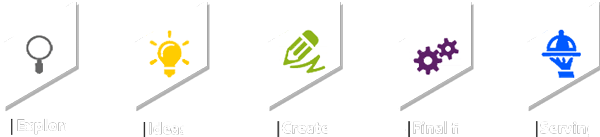
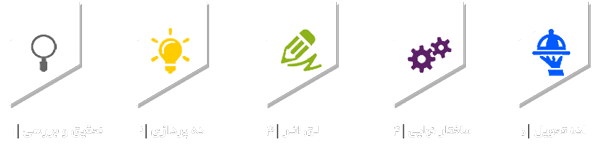
Fix about us

diff --git a/style.css b/style.css
@@ -618,14 +618,16 @@ section.about-us div.right-inside div.right-side {
 section.about-us div.left-side div.about {
 	margin-left :50px;
 }
+section.about-us div.left-side div.about.custome {
+	margin-left :240px !important;
+}
 div.about div.line {
 	width			:212px;
 	height			:14px;
-	margin-left		:88px;
+	margin-right		:88px;
 	border-bottom	:2px solid #fff;
 }
 div.about h4 {
-	width			:65px;
 	font-family		:'Open Sans Condensed', sans-serif;
 	font-size		:19px;
 	color			:#444;
@@ -658,7 +660,9 @@ div.do div.left-side {
 }
 
 div.do div.line {
-	margin-left: 105px;
+	width: 430px;
+	margin-right: 170px;
+	margin-left: 10px;
 }
 
 div.do div.right-side {
@@ -808,7 +812,7 @@ body.our-customers section.right-col div.bot-arrow {
 }
 
 div.right-inside h4 {
-	width			:65px;
+	float: right;
 	font-family		:'Open Sans Condensed', sans-serif;
 	font-size		:19px;
 	color			:#444;

diff --git a/pages/about-us.php b/pages/about-us.php
@@ -14,11 +14,11 @@
 					<div class="aboutUs">
 						<div class="left-side">
 							<div class="about left">
-								<h4 class="left">about us</h4>
+								<h4 class="left">درباره ما</h4>
 								<div class=" line" ></div>
 								<div class="desc left">
-									Zigorat Group officially started its activities in 2006 having young specialists in the design and implementation of the architecture, interior design and construction of exhibition stands has started.
-	The company has been involved in various projects and by working with the top brands in the world able to leave his brilliant career.
+									گروه زیگورات فعالیت خود را در سال 1385 به صورت رسمی با در اختیار داشتن نیروهای متخصص و جوان در زمینه طراحی و اجرای تخصصی معماری، دکوراسیون داخلی و ساخت و ساز غرفه های نمایشگاهی آغاز نمود.
+اين شرکت تا کنون در پروژه هاي مختلفي حضور داشته و از طریق همکاری با مجموعه برندهای برتر دنیا توانسته کارنامه درخشاني از خود به جای گذارد.
 								</div>
 							</div>
 						</div>
@@ -31,10 +31,11 @@
 					<div class="whatWeDo">
 						<div class="left-side">
 							<div class="about left">
-								<h4 class="left">What we do</h4>
+								<h4 class="left">نحوه کار</h4>
 								<div class=" line" ></div>
 								<div class="desc left">
-									We design with people in mind. We plan, create, develop and deliver impressive work for a diverse range  of clients. This didn't happen overnight either - together, we have been amassing our collective experience for over 15 years. Our considerable   skillset means that we are adept at more than just aesthetically pleasing projects: concept, content and design are all equally crucial.
+									گروه زیگورات فعالیت خود را در سال 1385 به صورت رسمی با در اختیار داشتن نیروهای متخصص و جوان در زمینه طراحی و اجرای تخصصی معماری، دکوراسیون داخلی و ساخت و ساز غرفه های نمایشگاهی آغاز نمود.
+اين شرکت تا کنون در پروژه هاي مختلفي حضور داشته و از طریق همکاری با مجموعه برندهای برتر دنیا توانسته کارنامه درخشاني از خود به جای گذارد.
 								</div>
 							</div>
 						</div>
@@ -47,10 +48,11 @@
 					<div class="whoWeAre">
 						<div class="left-side">
 							<div class="about left">
-								<h4 class="left">who we are</h4>
+								<h4 class="left">ما که هستیم</h4>
 								<div class=" line" ></div>
 								<div class="desc left">
-									Zigorat interior design group of experts and engineers with expertise in architecture and industrial design, on the science of project management and the use of science in industrial engineering monitoring and control of projects in order to achieve maximum performance in minimum possible time and cost, effective step towards a successful save money, time and compliance employers' demands and tastes of the funds intended for the project to take.
+									گروه زیگورات فعالیت خود را در سال 1385 به صورت رسمی با در اختیار داشتن نیروهای متخصص و جوان در زمینه طراحی و اجرای تخصصی معماری، دکوراسیون داخلی و ساخت و ساز غرفه های نمایشگاهی آغاز نمود.
+اين شرکت تا کنون در پروژه هاي مختلفي حضور داشته و از طریق همکاری با مجموعه برندهای برتر دنیا توانسته کارنامه درخشاني از خود به جای گذارد.
 								</div>
 							</div>
 						</div>
@@ -63,7 +65,7 @@
 					<div class="do">
 						<div class="left-side">
 							<div class="about left">
-								<h4 class="left">how we work</h4>
+								<h4 class="left">فرایند تکمیل پروژه ها</h4>
 								<div class=" line" ></div>
 
 							</div>
